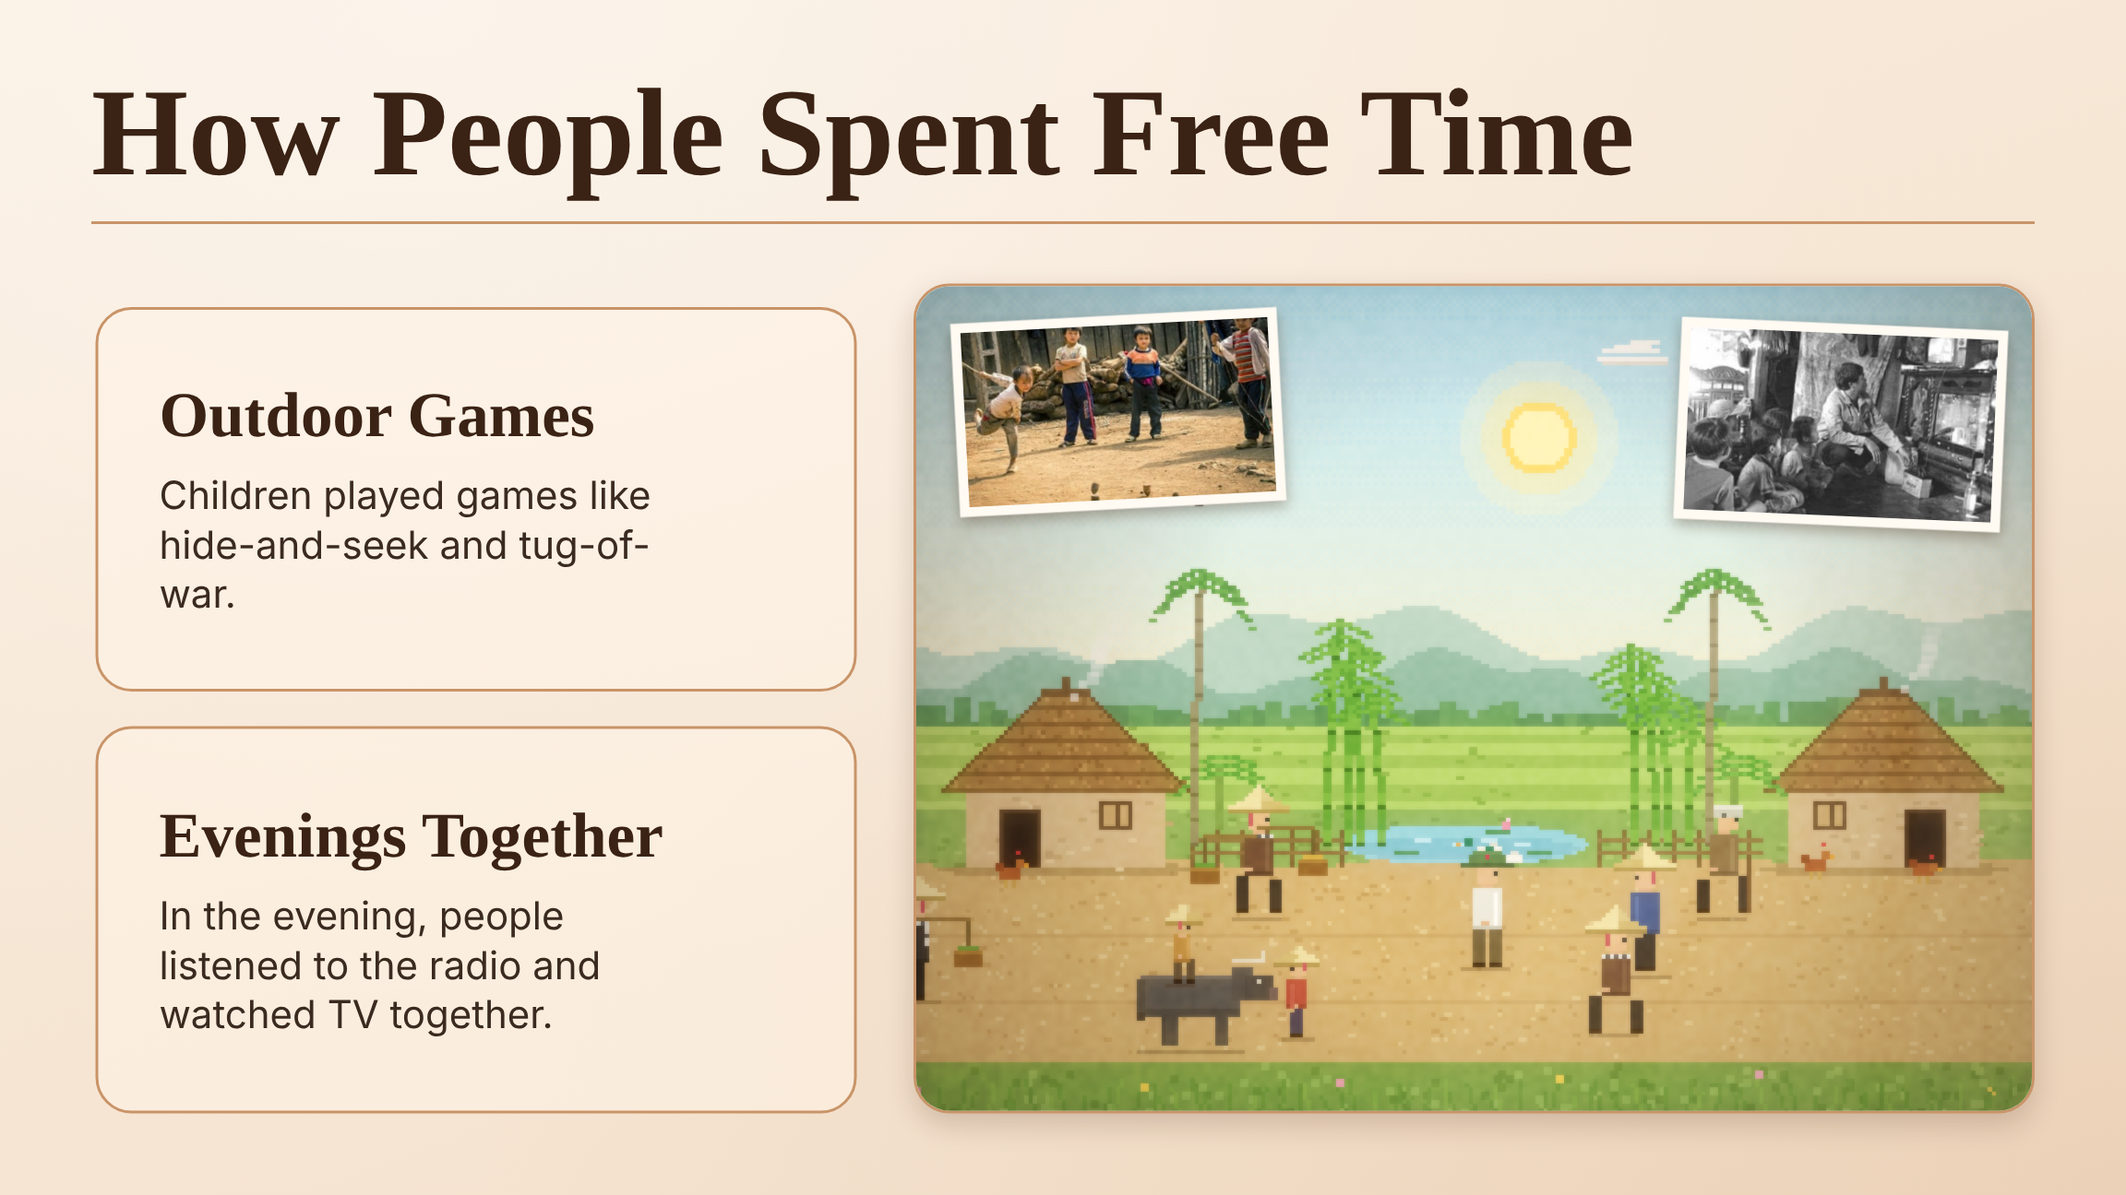
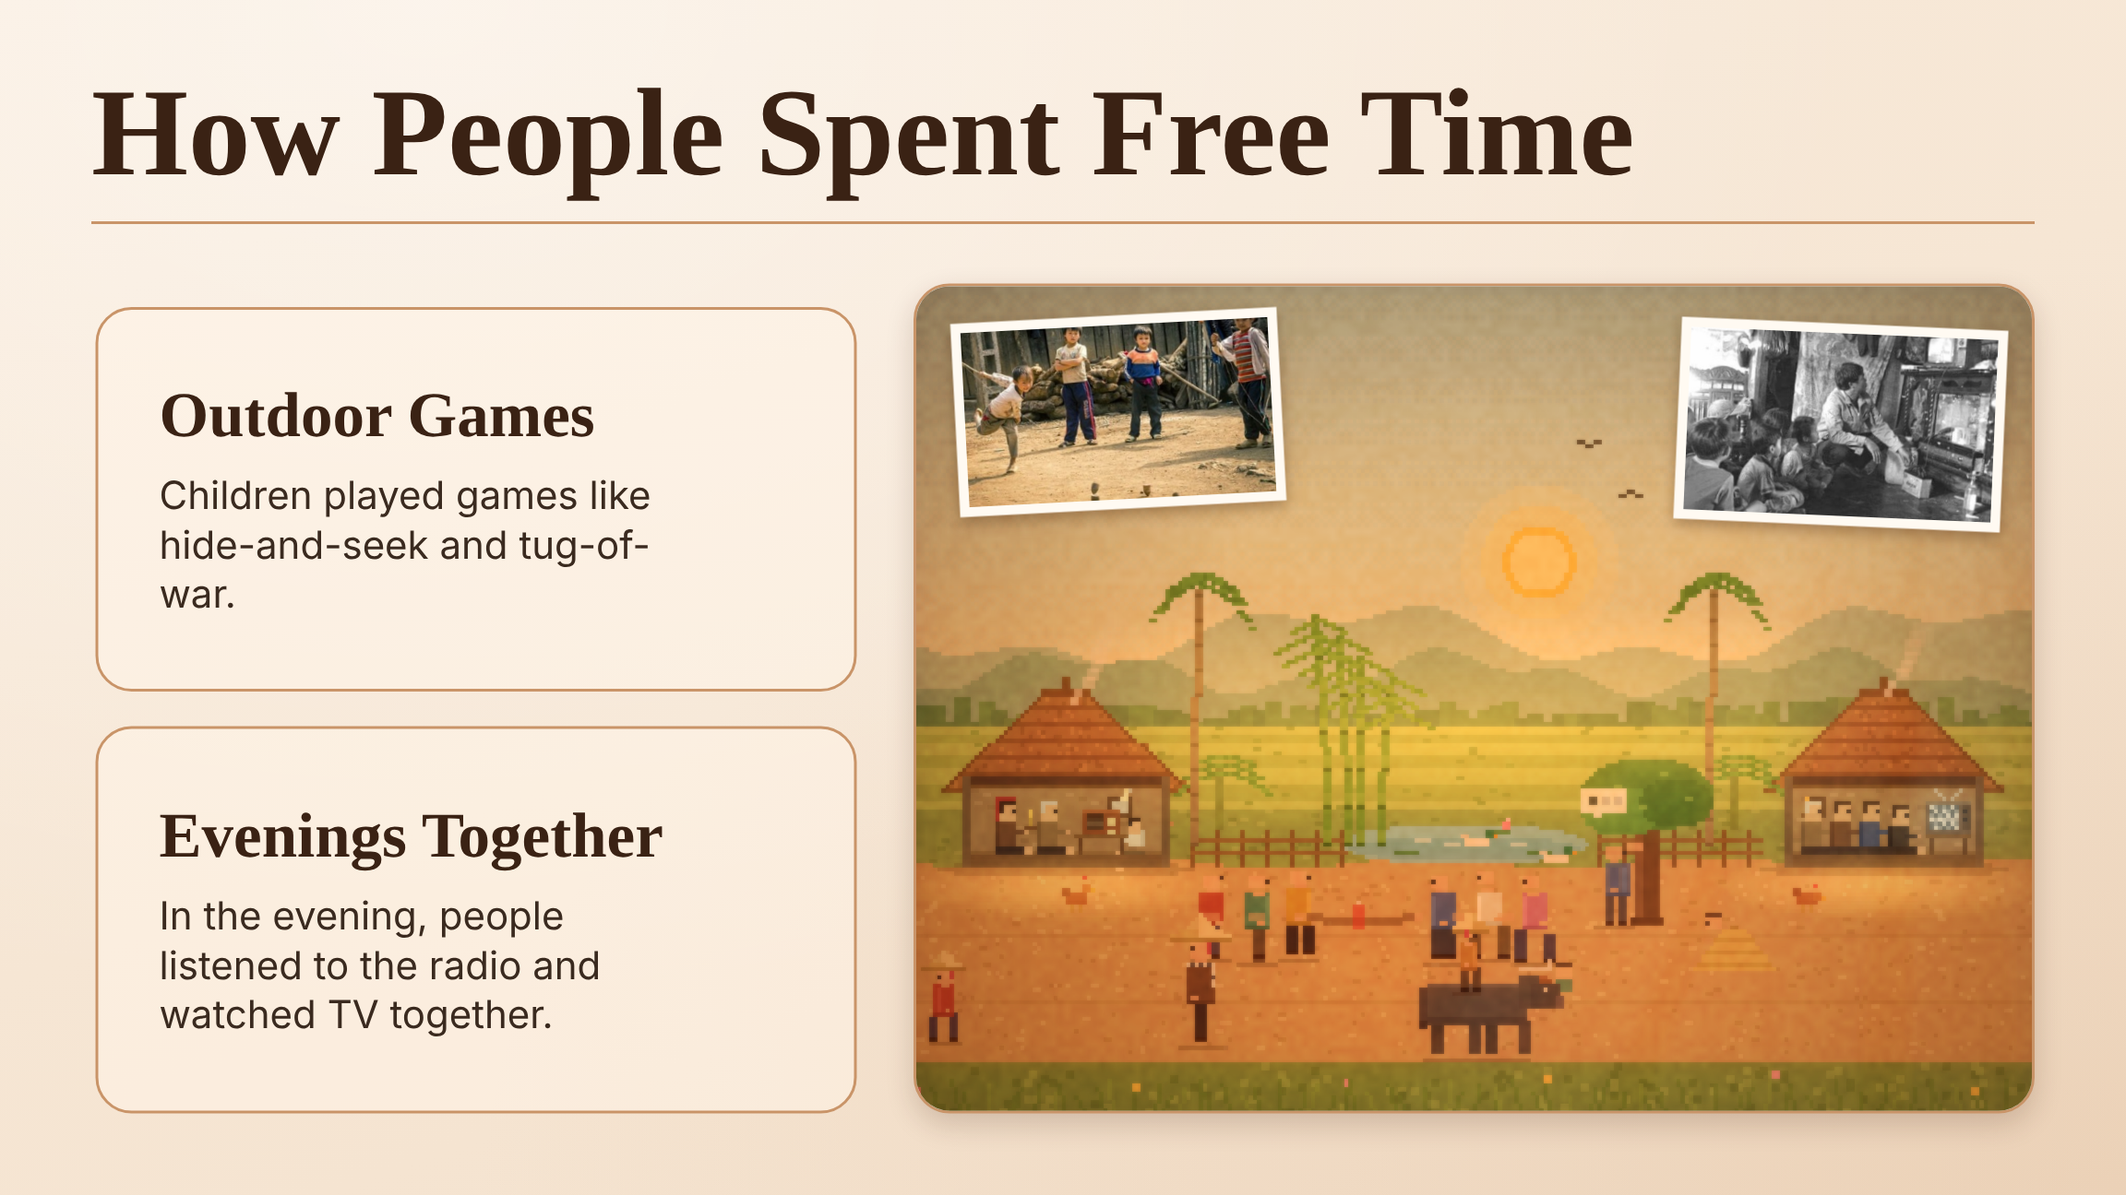
Slide 7: village scene with cutaway houses (radio, TV), tug-of-war and hide-and-seek, day-to-night cycle
Claude-Session: https://claude.ai/code/session_015dETkK63Reb6JNnJAvDzmD

diff --git a/slide7-anim.html b/slide7-anim.html
@@ -165,8 +165,8 @@
     rows.forEach(([a, w], i) => { R(c, x + a * s, y + i * s, Math.round(w * s), Math.max(1, Math.round(s)), i === 3 ? '#e8dcc8' : '#fffbf2'); });
     if (s > 1.1) R(c, x + 6 * s, y - 1 * s, Math.round(5 * s), Math.max(1, Math.round(s)), '#fffbf2');
   }
-  function sun(c, t) {
-    const cx = 150, cy = 36, p = 0.5 + 0.5 * Math.sin(t * 1.2);
+  function sun(c, t, cy = 36) {
+    const cx = 150, p = 0.5 + 0.5 * Math.sin(t * 1.2);
     c.globalAlpha = 0.22 + 0.1 * p; ellipse(c, cx, cy, 19, 19, '#fff3c0'); c.globalAlpha = 0.35 + 0.1 * p; ellipse(c, cx, cy, 14, 14, '#ffe8a0'); c.globalAlpha = 1;
     ellipse(c, cx, cy, 9, 9, '#ffd666'); ellipse(c, cx, cy, 7, 7, '#fff0b0');
   }
@@ -214,7 +214,7 @@
     clouds.forEach((c, i) => { c.x += dt * (1.6 + i * 0.7); if (c.x > W + 6) c.x = -20; });
     birds.forEach((b) => { b.x += dt * b.v; if (b.x > W + 8) b.x = -10; });
     smokeT -= dt;
-    if (smokeT < 0) { smokeT = 0.32; smoke.push({ x: 36, y: 100, a: 0 }); smoke.push({ x: 236, y: 98, a: 0 }); }
+    if (smokeT < 0) { smokeT = 0.32; smoke.push({ x: 36, y: 100, a: 0 }); smoke.push({ x: 232, y: 98, a: 0 }); }
     for (let i = smoke.length - 1; i >= 0; i--) { const s = smoke[i]; s.a += dt; s.y -= dt * 7; s.x += dt * 3 + Math.sin(s.a * 3) * dt * 3; if (s.a > 3.2) smoke.splice(i, 1); }
   }
 
@@ -292,14 +292,9 @@
   };
   // người đi: lane = đường chạy (toạ độ y của chân), v = tốc độ (điểm ảnh/giây), pausing = hay dừng lại
   const WALKERS = [
-    { kind: 'person', x: 40,  y: 152, d: 1,  v: 7,  style: STY.woman, pole: true },
-    { kind: 'person', x: 200, y: 152, d: -1, v: 5,  style: STY.elder, cane: true, stoop: true, pausing: true },
-    { kind: 'person', x: 110, y: 164, d: 1,  v: 8,  style: STY.white, pausing: true },
-    { kind: 'person', x: 230, y: 166, d: -1, v: 9,  style: STY.indigo },
-    { kind: 'person', x: 60,  y: 172, d: -1, v: 10, style: STY.black, pole: true },
-    { kind: 'buffalo', x: 30, y: 184, d: 1,  v: 6 },
-    { kind: 'person', x: 170, y: 181, d: -1, v: 13, style: STY.kid, k: 0.7 },
-    { kind: 'person', x: 120, y: 180, d: 1,  v: 8,  style: STY.woman, pausing: true }
+    { kind: 'buffalo', x: 30, y: 186, d: 1,  v: 6 },
+    { kind: 'person', x: 200, y: 182, d: -1, v: 11, style: STY.kid, k: 0.7 },
+    { kind: 'person', x: 120, y: 183, d: 1,  v: 8,  style: STY.woman, pausing: true }
   ];
   WALKERS.forEach((w, i) => { w.ph = i * 1.3; w.moving = true; w.wait = 0; w.next = 2 + i * 0.7; });
 
@@ -312,13 +307,166 @@
     }
   }
 
+  // ================= NGÀY -> CHIỀU -> ĐÊM (một vòng 36 giây) =================
+  const CYC = 36;
+  const sm = (a, b, x) => { const u = Math.min(1, Math.max(0, (x - a) / (b - a))); return u * u * (3 - 2 * u); };
+  const mixc = (a, b, t) => [lerp(a[0], b[0], t), lerp(a[1], b[1], t), lerp(a[2], b[2], t)];
+  const rgbs = (c, k = 1) => 'rgb(' + Math.round(c[0] * k) + ',' + Math.round(c[1] * k) + ',' + Math.round(c[2] * k) + ')';
+  const C_DAY = [255, 255, 255], C_DUSK = [255, 182, 132], C_NIGHT = [82, 98, 160];
+  function skyTint(tt) { return tt < 31 ? mixc(mixc(C_DAY, C_DUSK, sm(10, 17, tt)), C_NIGHT, sm(17, 25, tt)) : mixc(C_NIGHT, C_DAY, sm(31, 36, tt)); }
+  const nightOf = (tt) => tt < 31 ? sm(18, 25, tt) : 1 - sm(31, 36, tt);
+  const duskOf = (tt) => tt < 31 ? sm(10, 16, tt) * (1 - sm(19, 25, tt)) : 0;
+  // trẻ chơi ngoài sân: tới chiều thì chạy về nhà xem TV, sáng ra lại ra chơi
+  const goHomeOf = (tt) => sm(17, 21.5, tt) * (1 - sm(32, 33, tt));
+  const outAlpha = (tt) => tt < 17 ? 1 : (tt < 22 ? 1 - sm(20.5, 22, tt) : (tt < 34 ? 0 : sm(34, 35.5, tt)));
+
+  const KS = {
+    k1: { shirt: '#b84a3a', shirtD: '#9a3c2e', shirtL: '#c85e4c', pants: '#3a3a52' },
+    k2: { shirt: '#4a8a6a', shirtD: '#3a7054', shirtL: '#5da07e', pants: '#5a4a35' },
+    k3: { shirt: '#d0a040', shirtD: '#b08430', shirtL: '#e2b858', pants: '#2c2724' },
+    k4: { shirt: '#4f679c', shirtD: '#3d5382', shirtL: '#6580b8', pants: '#3a3a42' },
+    k5: { shirt: '#e8e0cc', shirtD: '#cfc9b6', shirtL: '#fffaf0', pants: '#6b5a3a' },
+    k6: { shirt: '#c87a9a', shirtD: '#a8607e', shirtL: '#dc92b0', pants: '#3a3a52' }
+  };
+  const HAIR = '#2a2018';
+  // người ngồi (nhìn nghiêng): y = mặt sàn, sz = cỡ (trẻ nhỏ hơn)
+  function sit(x, y, d, sz, st, t, ph, hair) {
+    const r = (dx, dy, w, h, col) => { const px = d > 0 ? dx : -dx - w; g.fillStyle = col; g.fillRect(Math.round(x + px * sz), Math.round(y + dy * sz), Math.max(1, Math.round(w * sz)), Math.max(1, Math.round(h * sz))); };
+    const nod = Math.sin(t * 1.3 + ph) > 0.92 ? 1 : 0;
+    r(-2, -2, 8, 2, st.pants); r(5, -2, 2, 2, '#e3b184');
+    r(-2, -8, 5, 6, st.shirt); r(-2, -8, 1, 6, st.shirtD);
+    r(2, -6, 4, 1, st.shirt); r(5, -6, 1, 1, '#e3b184');
+    r(-1, -13 + nod, 4, 5, '#e8b98a'); r(-1, -13 + nod, 4, 1, hair || HAIR); r(-1, -12 + nod, 1, 2, hair || HAIR);
+    r(2, -11 + nod, 1, 1, '#222');
+  }
+  function tvSet(x, y, t, on) {
+    R(g, x + 1, y - 4, 1, 4, '#5a4128'); R(g, x + 9, y - 4, 1, 4, '#5a4128'); R(g, x, y - 5, 11, 1, '#7a5a34');   // bàn
+    R(g, x, y - 13, 11, 8, '#6b5a46'); R(g, x, y - 13, 11, 1, '#85735a'); R(g, x + 9, y - 12, 2, 6, '#4f4234');
+    for (let j = 0; j < 6; j++) for (let i = 0; i < 7; i++) {
+      let col = '#2c3238';
+      if (on) { const q = (Math.floor(t * 14) + j * 5 + i * 3) % 7; col = q < 2 ? '#e6eef0' : (q < 4 ? '#9aa8ae' : '#5f6d74'); }
+      R(g, x + 1 + i, y - 12 + j, 1, 1, col);
+    }
+    if (on) R(g, x + 1, y - 12 + Math.floor((t * 6) % 6), 7, 1, 'rgba(255,255,255,.55)');
+    R(g, x + 9, y - 11, 1, 1, '#222'); R(g, x + 9, y - 9, 1, 1, '#222');
+    for (let k = 0; k < 4; k++) { R(g, x + 4 - k, y - 14 - k, 1, 1, '#c9c2b0'); R(g, x + 6 + k, y - 14 - k, 1, 1, '#c9c2b0'); }                      // ăng-ten
+  }
+  function radioSet(x, y, t) {
+    R(g, x + 1, y - 4, 1, 4, '#5a4128'); R(g, x + 11, y - 4, 1, 4, '#5a4128'); R(g, x, y - 5, 13, 1, '#7a5a34');
+    R(g, x + 2, y - 11, 9, 6, '#8a4e2a'); R(g, x + 2, y - 11, 9, 1, '#a8643a');
+    R(g, x + 3, y - 10, 4, 4, '#3a2a1a'); for (let j = 0; j < 3; j++) R(g, x + 3, y - 9 + j, 4, 1, j % 2 ? '#6a5a40' : '#4a3a28');
+    R(g, x + 8, y - 9, 2, 2, '#e8d9a0'); R(g, x + 8, y - 6, 2, 1, '#e8d9a0');
+    for (let k = 0; k < 5; k++) R(g, x + 9 + k, y - 12 - k, 1, 1, '#c9c2b0');
+    for (let n = 0; n < 3; n++) {                                           // nốt nhạc bay lên
+      const q = ((t * 0.55 + n / 3) % 1), nx = x + 4 + n * 3 + Math.round(Math.sin(t * 2 + n * 2) * 2), ny = y - 13 - q * 9;
+      g.globalAlpha = Math.sin(q * Math.PI); R(g, nx, ny, 1, 3, '#fff2c0'); R(g, nx - 1, ny + 2, 2, 1, '#fff2c0'); g.globalAlpha = 1;
+    }
+  }
+  function lampSet(x, y, t) {
+    R(g, x, y - 1, 3, 1, '#6b4a2a'); R(g, x + 1, y - 3, 1, 2, '#c9a64e'); R(g, x + 1, y - 5, 1, 2, Math.sin(t * 9 + x) > -0.2 ? '#ffd66a' : '#ffb84a');
+  }
+  const HOUSE_L = { x: 12, y0: 118, w: 48, floor: 139 }, HOUSE_R = { x: 210, y0: 118, w: 46, floor: 139 };
+  function house(H, t, tt, night, dusk, drawFn) {
+    g.save(); g.beginPath(); g.rect(H.x, H.y0, H.w, H.floor - H.y0 + 1); g.clip();
+    R(g, H.x, H.y0, H.w, H.floor - H.y0, '#a6845a');                                  // vách trong
+    for (let k = 0; k < 30; k++) R(g, H.x + ((k * 37) % H.w), H.y0 + ((k * 11) % 20), 2, 1, k % 2 ? '#98774f' : '#b8946a');
+    R(g, H.x, H.floor - 2, H.w, 3, '#6b4e30'); R(g, H.x, H.floor - 3, H.w, 1, '#8a6a42');   // sàn
+    drawFn();
+    R(g, H.x, H.y0, H.w, 2, '#4a3320'); R(g, H.x, H.y0 + 2, H.w, 1, '#6e4c28');          // bóng mái hắt xuống
+    // ánh sáng trong nhà: ban ngày hơi tối, ban đêm ấm vàng
+    g.globalCompositeOperation = 'multiply';
+    g.fillStyle = rgbs(mixc([228, 214, 194], [255, 222, 165], Math.max(night, dusk * 0.6))); g.fillRect(H.x, H.y0, H.w, H.floor - H.y0 + 1);
+    g.globalCompositeOperation = 'source-over';
+    g.restore();
+    R(g, H.x - 1, H.y0, 2, H.floor - H.y0 + 1, '#6b4a2a'); R(g, H.x + H.w - 1, H.y0, 2, H.floor - H.y0 + 1, '#6b4a2a');   // cột nhà
+  }
+  function radioHouse(t, tt, night, dusk) {
+    const H = HOUSE_L, f = H.floor - 2;
+    R(g, H.x + 7, H.y0 + 5, 5, 6, '#a8302e'); R(g, H.x + 8, H.y0 + 6, 3, 1, '#f2e6c0'); R(g, H.x + 8, H.y0 + 8, 3, 1, '#f2e6c0');   // tờ lịch
+    R(g, H.x + 34, H.y0 + 5, 6, 5, '#5a4128'); R(g, H.x + 35, H.y0 + 6, 4, 3, '#cfc9b6');                                         // khung ảnh
+    sit(H.x + 9, f, 1, 1, STY.woman, t, 0.5, HAIR);
+    sit(H.x + 19, f, 1, 1, STY.elder, t, 1.7, '#d8d4cc');
+    sit(H.x + 41, f, -1, 0.72, KS.k5, t, 2.4, HAIR);
+    radioSet(H.x + 26, f, t);
+    lampSet(H.x + 14, f - 6, t);
+  }
+  function tvHouse(t, tt, night, dusk) {
+    const H = HOUSE_R, f = H.floor - 2, on = tt > 15.5 && tt < 34.5;
+    R(g, H.x + 4, H.y0 + 5, 5, 5, '#5a4128'); R(g, H.x + 5, H.y0 + 6, 3, 3, '#cfc9b6');
+    tvSet(H.x + 33, f, t, on);
+    lampSet(H.x + 3, f - 9, t);
+    const a = sm(15.5, 18, tt) * (1 - sm(33, 34.5, tt)), ak = sm(20, 22, tt) * (1 - sm(32.5, 34, tt));
+    g.globalAlpha = a;
+    sit(H.x + 5, f, 1, 1, STY.elder, t, 0.2, '#d8d4cc'); sit(H.x + 12, f, 1, 1, STY.woman, t, 1.1, HAIR);
+    sit(H.x + 19, f, 1, 1, STY.indigo, t, 2.2, HAIR); sit(H.x + 26, f, 1, 0.9, STY.black, t, 3.1, HAIR);
+    g.globalAlpha = ak;
+    sit(H.x + 16, f, 1, 0.7, KS.k1, t, 0.9, HAIR); sit(H.x + 23, f, 1, 0.7, KS.k2, t, 1.6, HAIR); sit(H.x + 29, f, 1, 0.66, KS.k3, t, 2.7, HAIR);
+    g.globalAlpha = 1;
+  }
+  // ---- trò chơi ngoài sân ----
+  function tree(x, base) {                                              // cây xoài giữa sân
+    R(g, x - 3, base - 26, 6, 26, '#6b4a2a'); R(g, x - 3, base - 26, 2, 26, '#85603a'); R(g, x - 4, base - 2, 8, 2, '#5a3d22');
+    ellipse(g, x, base - 32, 16, 9, '#4f8a35'); ellipse(g, x - 6, base - 28, 10, 6, '#5da042'); ellipse(g, x + 7, base - 30, 9, 6, '#447a2e');
+    for (const [qx, qy] of [[-8, -34], [3, -37], [9, -31], [-2, -29]]) R(g, x + qx, base + qy, 2, 1, '#74b04a');
+  }
+  function hay(x, base) {
+    for (let r = 0; r < 10; r++) { const hw = 3 + Math.round(r * 0.75); R(g, x - hw, base - 10 + r, hw * 2, 1, r % 3 === 2 ? '#c9a64e' : '#e2c46a'); }
+    R(g, x - 1, base - 11, 2, 1, '#a8843a');
+  }
+  function jar(x, base) { R(g, x - 3, base - 7, 6, 7, '#8a4e2a'); R(g, x - 2, base - 8, 4, 1, '#a8643a'); R(g, x - 3, base - 5, 6, 1, '#6a3a20'); R(g, x - 2, base - 6, 1, 3, '#b0703e'); }
+  function kidPerson(x, y, d, k, st, moving, ph) { person({ x, y, d, k, ph: ph || 0, moving: !!moving, style: Object.assign({ hat: null, scarf: false }, st) }, 0); }
+  function outsideKids(t, tt) {
+    const al = outAlpha(tt); if (al <= 0.01) return;
+    const wk = goHomeOf(tt), hide = 1 - sm(17, 19, tt) * (tt < 30 ? 1 : 0);
+    g.globalAlpha = al;
+    // kéo co: hai đội 3 bạn, dây căng ở tay, vạch đỏ giữa dây xê dịch theo bên thắng
+    const sh = Math.sin(t * 0.9) * 3, ty = 162, k = 0.84;
+    const L = [66, 77, 88], Rr = [124, 135, 146], mid = 106 + sh;
+    const homeX = 216, lerpx = (x) => lerp(x, homeX + (x % 7), wk);
+    const gl = Math.sin(t * 5) * 0.4;
+    L.forEach((x, i) => kidPerson(lerpx(x + sh * 0.6), ty + (i % 2 ? 1 : 0) + (wk > 0.02 ? 0 : 0), 1, k, [KS.k1, KS.k2, KS.k3][i], wk > 0.02 && wk < 0.98, t * 6 + i));
+    Rr.forEach((x, i) => kidPerson(lerpx(x + sh * 0.6), ty + (i % 2 ? 0 : 1), wk > 0.04 ? 1 : -1, k, [KS.k4, KS.k5, KS.k6][i], wk > 0.02 && wk < 0.98, t * 6 + i + 2));
+    if (wk < 0.08) {
+      g.globalAlpha = al * (1 - wk / 0.08);
+      for (let i = 0; i < 6; i++) { const x = (i < 3 ? L[i] : Rr[i - 3]) + sh * 0.6, dd = i < 3 ? 1 : -1; R(g, x + (dd > 0 ? 3 : -6), 162 - 11, 4, 2, '#e3b184'); }
+      const x1 = L[2] + sh * 0.6 + 6, x2 = Rr[0] + sh * 0.6 - 4;
+      for (let x = x1; x < x2; x++) { const u = (x - x1) / (x2 - x1); R(g, x, 151 + Math.round(Math.sin(u * Math.PI) * 1.4), 1, 2, '#6a4a28'); }
+      R(g, mid - 1, 149, 3, 6, '#d33'); R(g, mid, 148, 1, 1, '#fff');
+      g.globalAlpha = al;
+    }
+    // trốn tìm: bạn bịt mắt đếm số quay vào cây, hai bạn nấp sau đống rơm và chum nước
+    if (hide > 0.02) {
+      g.globalAlpha = al * hide;
+      const cnt = Math.floor(t * 1.2) % 4;
+      kidPerson(168, 154, 1, 0.8, KS.k4, false, 0); R(g, 172, 154 - 20, 3, 2, '#e8b98a'); R(g, 171, 154 - 20, 1, 2, '#e8b98a');
+      R(g, 160, 154 - 33, 11, 6, '#fff'); R(g, 163, 154 - 27, 2, 1, '#fff');
+      for (let i = 0; i < 3; i++) R(g, 162 + i * 3, 154 - 31, 2, 2, i < cnt ? '#222' : '#bbb');
+      hay(197, 165);
+      const pk = Math.sin(t * 1.4) > 0 ? 1 : 0;
+      R(g, 190 + 0, 165 - 14 - pk, 4, 4, '#e8b98a'); R(g, 190, 165 - 14 - pk, 4, 1, HAIR); R(g, 190, 165 - 12 - pk, 1, 1, '#222');
+      jar(150, 174);
+      const pk2 = Math.sin(t * 1.1 + 2) > 0.2 ? 1 : 0;
+      R(g, 153 + pk2, 174 - 11, 4, 4, '#e8b98a'); R(g, 153 + pk2, 174 - 11, 4, 1, HAIR); R(g, 153 + pk2, 174 - 7, 4, 3, '#4a8a6a');
+    }
+    g.globalAlpha = 1;
+  }
+
+  function glowAt(x, y, rx, ry, rgb, a) {
+    g.save(); g.translate(x, y); g.scale(1, ry / rx);
+    const gr = g.createRadialGradient(0, 0, 0, 0, 0, rx); gr.addColorStop(0, 'rgba(' + rgb + ',' + a + ')'); gr.addColorStop(1, 'rgba(' + rgb + ',0)');
+    g.fillStyle = gr; g.beginPath(); g.arc(0, 0, rx, 0, 6.283); g.fill(); g.restore();
+  }
+  const STARS = (() => { const f = mulberry(31); return Array.from({ length: 34 }, () => ({ x: f() * W, y: 4 + f() * 66, p: f() * 6.28, s: f() < 0.2 ? 2 : 1 })); })();
+  const FLIES = Array.from({ length: 14 }, (_, i) => ({ x: 12 + i * 18, y: 138 + (i * 29 % 46), ax: 6 + (i % 4) * 3, ay: 3 + (i % 3) * 2, f: 0.4 + (i % 5) * 0.13, p: i * 1.7 }));
+
   // ================= VẼ MỖI KHUNG =================
   function draw(t) {
+    const tt = ((t % CYC) + CYC) % CYC, night = nightOf(tt), dusk = duskOf(tt), day = 1 - Math.max(night, dusk * 0.6);
     g.drawImage(bgc, 0, 0);
-    sun(g, t);
+    { const sa = 1 - sm(12, 22, tt); if (sa > 0.02 && tt < 31) { g.globalAlpha = sa; sun(g, t, 36 + sm(10, 22, tt) * 44); g.globalAlpha = 1; } }
     clouds.forEach((c) => cloud(g, c.x, c.y, c.s));
-    birds.forEach((b) => bird(g, b, t));
-    bamboo(g, 98, 54, t, 0.4); bamboo(g, 172, 48, t, 2.1);
+    g.globalAlpha = Math.max(0, 1 - night * 1.4); birds.forEach((b) => bird(g, b, t)); g.globalAlpha = 1;
+    bamboo(g, 98, 54, t, 0.4);
     areca(g, 66, t); areca(g, 190, t);
     // ao: sóng nước + sen + vịt
     for (let i = 0; i < 4; i++) { const rx = 118 + i * 9 + Math.round(Math.sin(t * 1.2 + i) * 2); R(g, rx, 133 + (i % 2), 4, 1, '#c8e8ec'); }
@@ -326,8 +474,9 @@
     R(g, 141, 129, 2, 2, '#f08aa8'); R(g, 142, 128, 1, 1, '#ffd0de');
     duck(g, 128 + Math.round(Math.sin(t * 0.4) * 10), 134, Math.cos(t * 0.4) > 0 ? 1 : -1, t, 0);
     duck(g, 146 + Math.round(Math.sin(t * 0.33 + 2) * 8), 137, Math.cos(t * 0.33 + 2) > 0 ? 1 : -1, t, 1.7);
-    chicken(g, 214, 142, t, 0); chicken(g, 240, 143, t, 2.2); chicken(g, 20, 144, t, 4.1);
-    // người, xếp theo y (xa trước, gần sau)
+    chicken(g, 212, 150, t, 0); chicken(g, 36, 150, t, 4.1);
+    tree(176, 154);
+    outsideKids(t, tt);
     WALKERS.slice().sort((a, b) => a.y - b.y).forEach((w) => (w.kind === 'buffalo' ? buffalo(w, t) : person(w, t)));
     // khói bếp
     for (const s of smoke) {
@@ -341,6 +490,30 @@
       for (let y = 0; y < h; y++) R(g, x + Math.round(sw * y / h * 1.5), 199 - y, 1, 1, i % 4 ? '#6f9440' : '#87ac4e');
       if (i % 13 === 0) R(g, x + Math.round(sw * 1.5), 199 - h - 1, 2, 2, i % 2 ? '#f6d65a' : '#f2a0b8');
     }
+    // ---- ánh sáng theo giờ: nhuộm màu cả cảnh ngoài trời ----
+    g.globalCompositeOperation = 'multiply'; g.fillStyle = rgbs(skyTint(tt)); g.fillRect(0, 0, W, H); g.globalCompositeOperation = 'source-over';
+    // ---- trong nhà (sau khi nhuộm, có đèn riêng) ----
+    house(HOUSE_L, t, tt, night, dusk, () => radioHouse(t, tt, night, dusk));
+    house(HOUSE_R, t, tt, night, dusk, () => tvHouse(t, tt, night, dusk));
+    // ---- sao, trăng, đom đóm, ánh đèn hắt ra sân (cộng sáng) ----
+    if (night > 0.02) {
+      for (const s of STARS) { const a = night * (0.45 + 0.55 * Math.sin(t * 1.6 + s.p)); g.globalAlpha = Math.max(0, a); R(g, s.x, s.y, s.s, s.s, '#fff8e0'); }
+      g.globalAlpha = night * 0.5; ellipse(g, 214, 26, 12, 12, '#cfd8ff'); g.globalAlpha = night * 0.9; ellipse(g, 214, 26, 7, 7, '#f6f2d6'); ellipse(g, 216, 25, 6, 6, '#fffbe6'); g.globalAlpha = 1;
+    }
+    g.globalCompositeOperation = 'lighter';
+    if (dusk > 0.01) { g.globalAlpha = dusk * 0.5; glowAt(135, 106, 150, 30, '255,150,70', 0.55); g.globalAlpha = 1; }
+    const lit = Math.max(night, dusk * 0.7);
+    if (lit > 0.02) {
+      g.globalAlpha = lit; glowAt(HOUSE_L.x + 24, 144, 40, 9, '255,196,110', 0.38); glowAt(HOUSE_R.x + 23, 144, 40, 9, '255,196,110', 0.38);
+      glowAt(HOUSE_R.x + 38, 128, 18, 12, '170,210,255', 0.18 * (tt > 15.5 && tt < 34.5 ? 1 : 0)); g.globalAlpha = 1;
+    }
+    if (night > 0.3) for (const f of FLIES) {
+      const x = f.x + Math.sin(t * f.f + f.p) * f.ax, y = f.y + Math.cos(t * f.f * 1.3 + f.p) * f.ay, a = night * Math.max(0, Math.sin(t * 2.4 + f.p));
+      g.globalAlpha = a * 0.35; g.fillStyle = '#d8ff80'; g.fillRect(Math.round(x) - 1, Math.round(y) - 1, 3, 3);
+      g.globalAlpha = a; g.fillStyle = '#f4ffb0'; g.fillRect(Math.round(x), Math.round(y), 1, 1);
+    }
+    g.globalAlpha = 1; g.globalCompositeOperation = 'source-over';
+    void day;
   }
 
   drawBackground();
@@ -365,6 +538,6 @@
 })();
 </script>
 <script src="fx-post.js"></script>
-<script>PostFX.attach('#scene',{bloom:.34,soft:.4,vign:.45,grade:'rgba(255,200,130,.10)',rays:{x:.9,y:.02,color:'255,226,170',a:.18}});</script>
+<script>PostFX.attach('#scene',{bloom:.34,soft:.4,vign:.45,grade:'rgba(255,200,130,.10)',rays:{x:.9,y:.02,color:'255,226,170',a:.1}});</script>
 </body>
 </html>

diff --git a/render.js b/render.js
@@ -59,9 +59,9 @@ const path = require('path');
       console.log('slide8.png (từ slide8-anim.html)');
       continue;
     }
-    if (i === 7) {   // slide 7 có làng pixel: xuất từ slide7-anim.html (dừng ở giây thứ 6)
+    if (i === 7) {   // slide 7 có làng pixel: xuất từ slide7-anim.html (dừng ở giây thứ 17.5: chiều tà, đèn nhà bật)
       const p7 = await browser.newPage({ viewport: { width: 1536, height: 864 }, deviceScaleFactor: scale });
-      await p7.goto('file://' + path.join(__dirname, 'slide7-anim.html') + '?still=6', { waitUntil: 'load' });
+      await p7.goto('file://' + path.join(__dirname, 'slide7-anim.html') + '?still=17.5', { waitUntil: 'load' });
       await p7.waitForFunction('window.__ready');
       await p7.waitForFunction('window.__pfReady');
       await p7.evaluate(() => document.fonts.ready);
